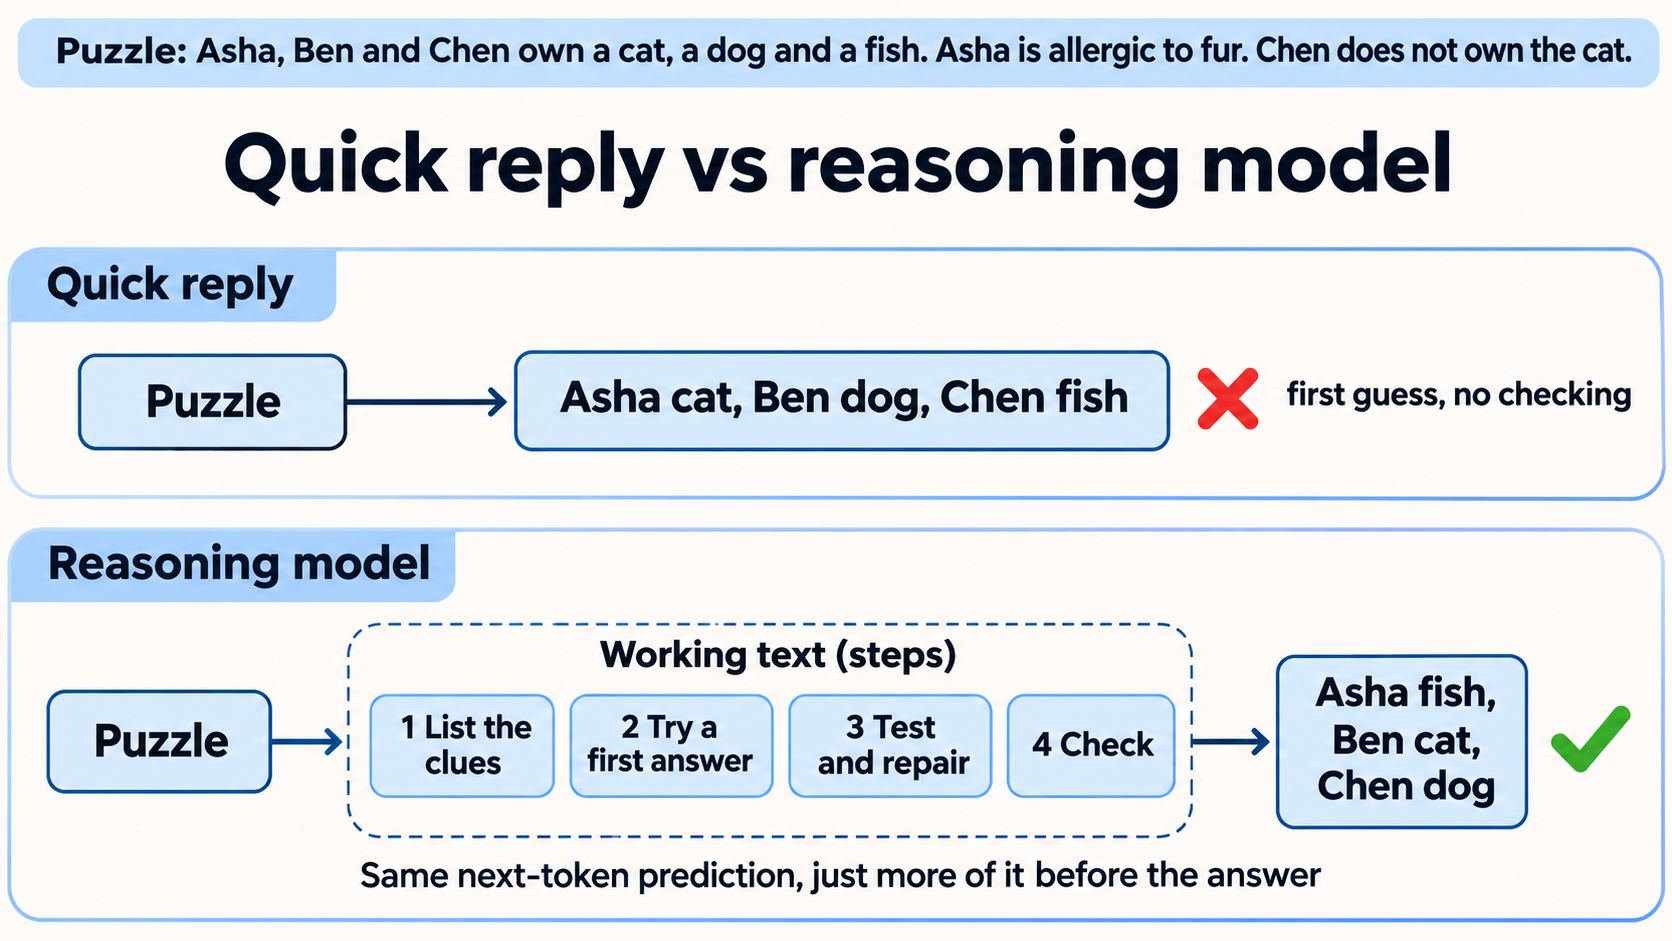
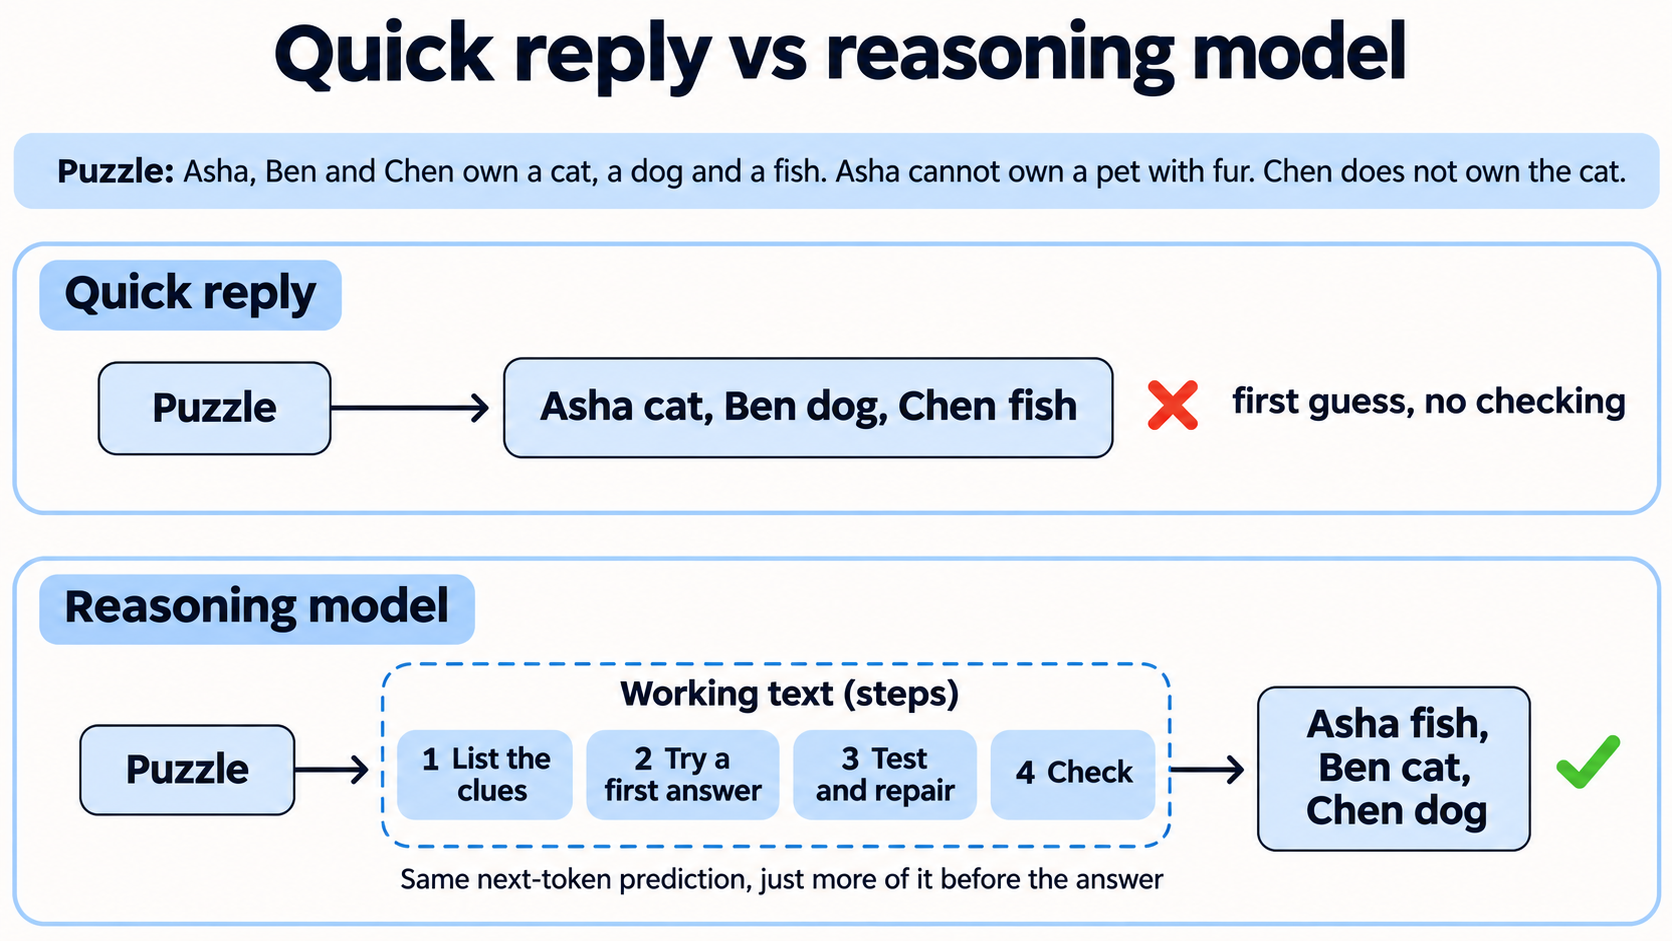
c2-10: state the allergy clue explicitly so the puzzle has a unique solution

diff --git a/src/lessons/genai-basics/c2-10/ReasoningLab.tsx b/src/lessons/genai-basics/c2-10/ReasoningLab.tsx
@@ -24,7 +24,7 @@ const problems: Problem[] = [
   {
     id: "pets",
     label: "Pet puzzle (needs several clues)",
-    text: "Asha, Ben and Chen each own a different pet: a cat, a dog or a fish. Asha is allergic to fur. Chen does not own the cat. Who owns which pet?",
+    text: "Asha, Ben and Chen each own a different pet: a cat, a dog or a fish. Asha is allergic to fur, so she cannot own a pet with fur. Chen does not own the cat. Who owns which pet?",
     truth: "Asha: fish, Ben: cat, Chen: dog",
     quick: "Asha: cat, Ben: dog, Chen: fish",
     discarded: "Asha: cat, Ben: dog, Chen: fish",
@@ -38,7 +38,7 @@ const problems: Problem[] = [
       "The toy writes tidy steps, but they just pair names and pets in listed order and never use the clues. In real models, asking for steps often does help; it just is not a guarantee, and it is not the same as being trained to work first.",
     work: [
       {
-        text: "List the clues: Asha is allergic to fur. Chen does not own the cat. The pets are a cat, a dog and a fish.",
+        text: "List the clues: Asha cannot own a pet with fur. Chen does not own the cat. The pets are a cat, a dog and a fish.",
         cost: 60,
         answer: "Asha: cat, Ben: dog, Chen: fish",
       },
@@ -48,7 +48,7 @@ const problems: Problem[] = [
         answer: "Asha: cat, Ben: dog, Chen: fish",
       },
       {
-        text: "Test the first attempt against the clues. Asha is allergic to fur, so she cannot have the cat. Discard it. Only the fish has no fur, so Asha has the fish. Chen does not have the cat, so Chen has the dog and Ben has the cat.",
+        text: "Test the first attempt against the clues. Asha cannot own a pet with fur, so she cannot have the cat. Discard it. Only the fish has no fur, so Asha has the fish. Chen does not have the cat, so Chen has the dog and Ben has the cat.",
         cost: 90,
         answer: "Asha: fish, Ben: cat, Chen: dog",
       },

diff --git a/src/lessons/genai-basics/c2-10/Lesson.tsx b/src/lessons/genai-basics/c2-10/Lesson.tsx
@@ -50,8 +50,8 @@ export default function Lesson() {
           using the clues.{" "}
           <strong>
             Asha, Ben and Chen each own a different pet: a cat, a dog or a fish.
-            Asha is allergic to fur. Chen does not own the cat. Who owns which
-            pet?
+            Asha is allergic to fur, so she cannot own a pet with fur. Chen does
+            not own the cat. Who owns which pet?
           </strong>
         </p>
         <h3>A quick reply</h3>
@@ -59,7 +59,8 @@ export default function Lesson() {
           It answers at once: “Asha has the cat, Ben has the dog, Chen has the
           fish.” That is just the names and pets paired in the order they were
           listed. It sounds fine, and it breaks the first clue, because Asha is
-          allergic to fur. Nothing in the reply checked it.
+          allergic to fur and cannot own a pet with fur. Nothing in the reply
+          checked it.
         </p>
         <h3>A reasoning model</h3>
         <p>

diff --git a/docs/lesson-reports/genai-basics/c2-10.md b/docs/lesson-reports/genai-basics/c2-10.md
@@ -46,6 +46,7 @@ For a subject-matter reviewer: confirm the training and faithfulness claims agai
 - Codex review iteration 1: softened the "one chance" opening and "improves the odds"; labelled the toy trace as an inspection-only view (it is intentionally always visible and separate from "what the app shows").
 - Added an explainer diagram (quick reply vs reasoning model, now the pet puzzle) generated with Codex image generation and embedded with `next/image`; its caption says the example is invented. Its text is small at 390px (checked once in dark, by eye). The lab instructions became a numbered list for easier following.
 - After feedback that the lesson was hard to follow: replaced the arithmetic ferry example with a non-calculation logic puzzle, added a plain-language walkthrough section ("example") before the lab, renamed the lab header to start with "Mix and match", and regenerated the diagram for the new example.
+- Codex review iteration 3: the clue "Asha is allergic to fur" did not strictly rule out a furry pet, so the puzzle was reworded to "Asha is allergic to fur, so she cannot own a pet with fur" in the walkthrough, lab and regenerated diagram.
 - No expanded workspace, so no focus or Escape handling applies.
 
 ## 6. Verification evidence
